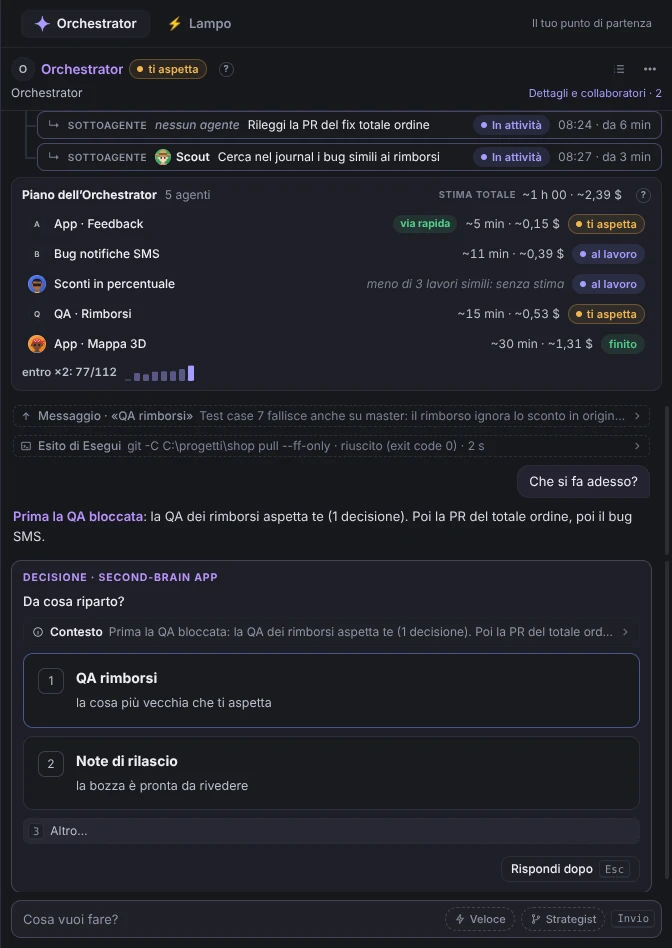
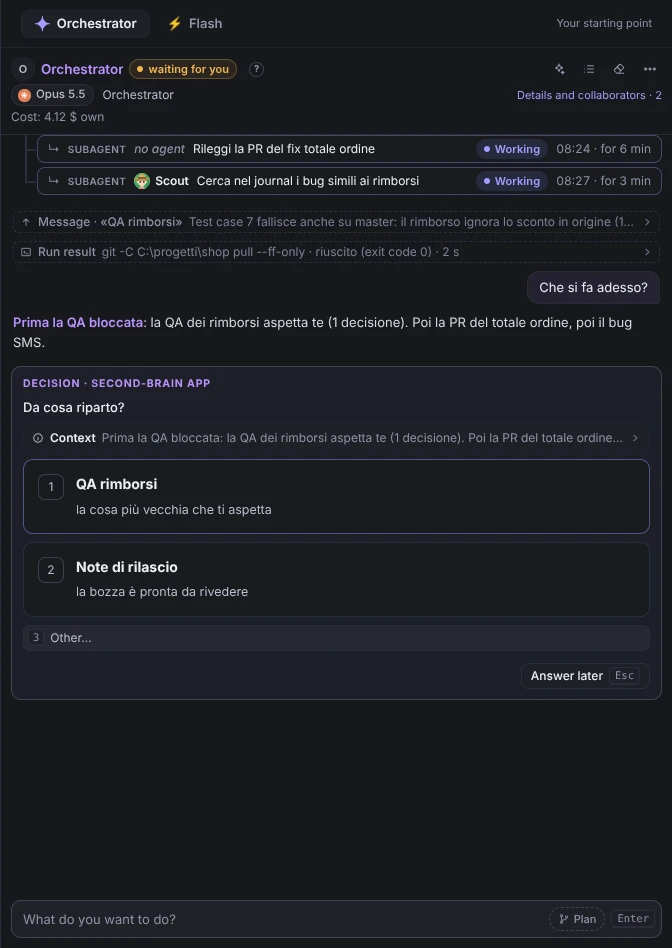
docs(readme): showcase of the best features with fresh screenshots

diff --git a/test/shots/readme.spec.ts b/test/shots/readme.spec.ts
@@ -1,55 +1,83 @@
 // The README screenshots, generated from the frozen demo (SB_DEMO=1 SB_DEMO_FREEZE=1, the synthetic brain of
-// scripts/demo-brain.mjs) so they always show the current UI with fictional data only: dark theme, 1600x1000, saved as
-// WebP (< 300 KB each) in docs/screenshots/. Not part of `npm run check`: run by `npm run shots`
-// (its own Playwright config, playwright.shots.config.ts). The app runs hidden (SB_HIDDEN, set by launch()).
+// scripts/demo-brain.mjs) so they always show the current UI with fictional data only: English UI (SB_LANG=en), dark
+// theme, 1600x1000, saved as WebP (< 300 KB each) in docs/screenshots/: the whole window, one part of it, or two parts
+// side by side. The showcase (memory, agent-levels, brain-map, orchestrator-flash, reactions, plan) and the rest. Not part
+// of `npm run check`: run by `npm run shots` (its own Playwright config, playwright.shots.config.ts). The app runs hidden
+// (SB_HIDDEN, set by launch()). The 3D map needs WebGL: on a machine without a GPU set
+// SB_E2E_ELECTRON_ARGS="--use-angle=swiftshader --enable-unsafe-swiftshader" (and xvfb-run on Linux).
 import { expect, test, type ElectronApplication, type Locator, type Page } from '@playwright/test';
 import { createHash } from 'node:crypto';
 import fs from 'node:fs';
 import os from 'node:os';
 import path from 'node:path';
+import type { StrategyPlan } from '../../src/shared/strategy';
 import { launch, openOrchestrator, openNotesMap, setSize, waitThumbs, goPage } from '../e2e/helpers';
 // @ts-expect-error plain ESM helper without types
 import { demoBrain } from '../../scripts/demo-brain.mjs';
 
 const OUT = path.resolve(import.meta.dirname, '..', '..', 'docs', 'screenshots');
 const MAX = 300 * 1024;
+const W = 1600, H = 1000;
 
 let app: ElectronApplication, page: Page;
 test.beforeAll(async () => {
   fs.mkdirSync(OUT, { recursive: true });
   const brain = (demoBrain as (p: string) => string)('sb-shots-brain-');
-  // each chat asks in its own tile (questions as panels), as most users start
+  // each chat asks in its own tile (questions as panels), as most users start; the UI in English
   const userData = fs.mkdtempSync(path.join(os.tmpdir(), 'sb-shots-'));
-  fs.writeFileSync(path.join(userData, 'config.json'), JSON.stringify({ orchestratorDriven: false }));
-  ({ app, page } = await launch({ SB_DEMO: '1', SB_DEMO_FREEZE: '1', SB_BRAIN: brain }, userData));
-  await setSize(app, 1600, 1000);
+  fs.writeFileSync(path.join(userData, 'config.json'), JSON.stringify({ orchestratorDriven: false, language: 'en', theme: 'dark' }));
+  ({ app, page } = await launch({ SB_DEMO: '1', SB_DEMO_FREEZE: '1', SB_BRAIN: brain, SB_LANG: 'en' }, userData));
+  await setSize(app, W, H);
   await page.emulateMedia({ colorScheme: 'dark', reducedMotion: 'reduce' });
   await expect(page.locator('html[data-clock="frozen"]')).toHaveCount(1);
+  await expect(page.locator('html')).toHaveAttribute('lang', 'en');
   await expect(page.getByTestId('orchestrator-overlay')).toBeVisible();
 });
 test.afterAll(async () => { await app?.close(); });
 
-/** Screenshot (of the whole window, or of one part of it) → WebP in the page (Chromium's encoder: no image dependency),
- *  lowering the quality until < 300 KB. */
-async function save(name: string, part?: Locator): Promise<void> {
-  // transient toasts ("Task aggiornati") would cover the page
+type Clip = { x: number; y: number; width: number; height: number };
+type Part = Locator | Clip;
+
+/** The window, one part of it (an element or a rectangle) as PNG. */
+async function png(part?: Part): Promise<Buffer> {
+  if (part && 'screenshot' in part) return part.screenshot({ animations: 'disabled', caret: 'hide' });
+  return page.screenshot({ animations: 'disabled', caret: 'hide', ...(part ? { clip: part } : {}) });
+}
+
+/** Screenshot (of the whole window, one part of it, or several parts side by side on the app's background) → WebP in
+ *  the page (Chromium's encoder: no image dependency), lowering the quality until < 300 KB. `still`: the mouse stays
+ *  where it is (a card held mid-drag). */
+async function save(name: string, part?: Part | Part[], opts: { still?: boolean } = {}): Promise<void> {
+  // transient toasts ("Tasks updated") would cover the page
   for (const x of await page.getByTestId('toast-close').all()) await x.click();
   await expect(page.getByTestId('toast')).toHaveCount(0);
-  await page.mouse.move(2, 2);
+  if (!opts.still) await page.mouse.move(2, 2);
   await page.waitForTimeout(300);
-  const png = await (part ?? page).screenshot({ animations: 'disabled', caret: 'hide' });
+  const parts = Array.isArray(part) ? part : [part];
+  const pngs: Buffer[] = [];
+  for (const p of parts) pngs.push(await png(p));
+  await saveBuffers(name, pngs);
+}
+
+/** PNGs side by side on the app's background → docs/screenshots/<name>.webp. */
+async function saveBuffers(name: string, buffers: Buffer[]): Promise<void> {
+  const pngs = buffers.map(b => b.toString('base64'));
   for (const q of [0.9, 0.82, 0.74, 0.66]) {
     const b64 = await page.evaluate(async ([data, quality]) => {
-      const bytes = Uint8Array.from(atob(data as string), c => c.charCodeAt(0));
-      const bmp = await createImageBitmap(new Blob([bytes], { type: 'image/png' }));
-      const c = new OffscreenCanvas(bmp.width, bmp.height);
-      c.getContext('2d')!.drawImage(bmp, 0, 0);
+      const bmps = await Promise.all((data as string[]).map(d => createImageBitmap(new Blob([Uint8Array.from(atob(d), c => c.charCodeAt(0))], { type: 'image/png' }))));
+      const gap = bmps.length > 1 ? 24 : 0;
+      const c = new OffscreenCanvas(bmps.reduce((w, b) => w + b.width, 0) + gap * (bmps.length - 1), Math.max(...bmps.map(b => b.height)));
+      const g = c.getContext('2d')!;
+      g.fillStyle = getComputedStyle(document.body).backgroundColor || '#0b0b10';
+      g.fillRect(0, 0, c.width, c.height);
+      let x = 0;
+      for (const b of bmps) { g.drawImage(b, x, 0); x += b.width + gap; }
       const blob = await c.convertToBlob({ type: 'image/webp', quality: quality as number });
       const buf = new Uint8Array(await blob.arrayBuffer());
       let s = '';
       for (let i = 0; i < buf.length; i += 0x8000) s += String.fromCharCode(...buf.subarray(i, i + 0x8000));
       return btoa(s);
-    }, [png.toString('base64'), q] as const);
+    }, [pngs, q] as const);
     const webp = Buffer.from(b64, 'base64');
     if (webp.length <= MAX || q === 0.66) {
       fs.writeFileSync(path.join(OUT, `${name}.webp`), webp);
@@ -62,6 +90,8 @@ async function save(name: string, part?: Locator): Promise<void> {
   }
 }
 
+const demo = <T,>(fn: string, ...args: unknown[]): Promise<T> =>
+  app.evaluate((_e, [f, a]) => ((globalThis as unknown as { __sbDemo: Record<string, (...x: unknown[]) => unknown> }).__sbDemo[f as string]!)(...(a as unknown[])), [fn, args] as const) as Promise<T>;
 const tool = (chatId: string, t: { id: string; name: string; input: unknown; summary?: string }) =>
   app.evaluate((_e, [c, x]) => (globalThis as unknown as { __sbDemo: { tool(c: string, t: unknown): void } }).__sbDemo.tool(c, x), [chatId, t] as const);
 
@@ -109,10 +139,10 @@ test('README screenshots', async () => {
   await tool('fix', { id: 'shot-agent', name: 'Agent', input: { subagent_type: 'reviewer' }, summary: 'reviewer' });
   await tool('orchestrator', { id: 'shot-send', name: 'mcp__second-brain-app__app_send_to_chat', input: { chatId: 'feedback', text: 'go' }, summary: 'App · Feedback' });
   await openNotesMap(page);
-  await page.getByRole('button', { name: 'Esplora in 3D' }).click();
+  await page.getByRole('button', { name: 'Explore in 3D' }).click();
   await expect(page.getByTestId('brain-map').getByTestId('bx-map-canvas').locator('canvas')).toHaveCount(1, { timeout: 30_000 });
   await page.waitForTimeout(5000); // the layout settles
-  await save('brain-map');
+  await save('brain-map', page.getByTestId('brain-map'));
   await page.keyboard.press('Escape');
   await expect(page.getByTestId('brain-map')).toHaveCount(0);
 
@@ -131,9 +161,94 @@ test('README screenshots', async () => {
   await save('quality');
 
   // 7. Script: the brain's tested, reusable scripts as cards (ADR 0076)
-  await page.getByTestId('nav-script').click();
+  await goPage(page, 'script'); // a tab of Memoria now (ADR 0122)
   await expect(page.getByTestId('bs-script-card')).toHaveCount(4, { timeout: 30_000 });
   await save('brain-scripts');
+});
+
+/** The visible part of the scrolling frame around this element (the page's own column, without the rail and the
+ *  Orchestrator's column). */
+const frameOf = (el: Locator): Promise<Clip> => el.evaluate(e => {
+  let f: HTMLElement | null = e as HTMLElement;
+  while (f && !(f.scrollHeight > f.clientHeight && /(auto|scroll)/.test(getComputedStyle(f).overflowY))) f = f.parentElement;
+  const r = (f ?? (e as HTMLElement)).getBoundingClientRect();
+  const y = Math.max(0, r.top), b = Math.min(innerHeight, r.bottom);
+  return { x: Math.round(r.left), y: Math.round(y), width: Math.round(r.width), height: Math.round(b - y) };
+});
+
+test('README showcase: Memoria, agent levels, Orchestrator and Flash, reactions', async () => {
+  test.setTimeout(180_000);
+  await goPage(page, 'home');
+
+  // Memoria: the live head with its counters, the tabs, the Proposals deck with its top card held mid-swipe
+  await setSize(app, W, 1240);
+  await page.getByTestId('nav-memoria').click();
+  const mem = page.getByTestId('bm-memory-page');
+  await expect(mem).toHaveAttribute('data-tab', 'proposte');
+  const top = page.getByTestId('pd-card-top');
+  await expect(top).toBeVisible({ timeout: 30_000 });
+  await expect(page.getByTestId('bx-loading')).toHaveCount(0, { timeout: 30_000 });
+  await page.waitForTimeout(600);
+  const box = (await top.locator('.pd-title').boundingBox())!;
+  const x = box.x + box.width / 2, y = box.y + box.height / 2;
+  await page.mouse.move(x, y);
+  await page.mouse.down();
+  for (let i = 1; i <= 8; i++) await page.mouse.move(x + (120 * i) / 8, y + i * 1.5);
+  await expect(page.getByTestId('pd-stamp-yes')).toHaveCSS('opacity', /^(0\.[5-9]|1)/);
+  await save('memory', await frameOf(mem), { still: true });
+  await page.mouse.move(x, y); // back below the threshold: the card springs back, nothing decided
+  await page.mouse.up();
+  await expect(page.getByTestId('pd-stamp-yes')).toHaveCSS('opacity', '0');
+
+  // Agents: every role's card with its level from verified outcomes and its performance %, the level's "?" open on the
+  // Sentinel (who judges the judge)
+  await goPage(page, 'agenti');
+  const overview = page.getByTestId('agent-overview');
+  await expect(overview.getByTestId('catalog-card-sentinel')).toBeVisible({ timeout: 30_000 });
+  const cards: Buffer[] = [];
+  for (const id of ['orchestrator', 'artisan', 'sentinel']) {
+    const card = overview.getByTestId(`catalog-card-${id}`);
+    await card.scrollIntoViewIfNeeded();
+    await page.mouse.move(2, 2);
+    await page.waitForTimeout(300);
+    cards.push(await png(card));
+  }
+  await saveBuffers('agent-levels', cards);
+  await setSize(app, W, H);
+
+  // the Orchestrator's column, then Flash beside it, side by side
+  await goPage(page, 'home');
+  await openOrchestrator(page);
+  await waitThumbs(page);
+  const column = page.getByTestId('orchestrator-overlay');
+  await page.mouse.move(2, 2);
+  const cb0 = (await column.boundingBox())!;
+  const topPart = { x: Math.round(cb0.x), y: Math.round(cb0.y), width: Math.round(cb0.width), height: 745 };
+  const orch = await png(topPart);
+  await page.getByTestId('lane-lampo').click();
+  await expect(page.getByTestId('tile-lampo')).toBeVisible();
+  await page.mouse.move(2, 2);
+  await page.waitForTimeout(300);
+  const flash = await png(topPart);
+  await page.getByTestId('lane-orchestrator').click();
+  await expect(page.getByTestId('tile-orchestrator')).toBeVisible();
+  await saveBuffers('orchestrator-flash', [orch, flash]);
+
+  // a thanks needs no answer: the Orchestrator's one-emoji reply sticks to the message as a reaction (her decision
+  // answered first, so the message goes at once instead of queuing behind her turn)
+  await page.getByTestId('tile-orchestrator').getByRole('button', { name: /^QA rimborsi/ }).click();
+  await expect.poll(() => page.evaluate(async () => (await window.sb.invoke('chat:list', undefined)).find(c => c.isOrchestrator && !c.closedAt)?.state), { timeout: 20_000 }).toBe('idle');
+  await page.getByTestId('orchestrator-input').click();
+  await page.keyboard.type('thanks!');
+  await page.keyboard.press('Enter');
+  const react = page.getByTestId('tile-orchestrator').locator('.msg-user .msg-react').last();
+  await expect(react).toHaveText('👍', { timeout: 15_000 });
+  await page.waitForTimeout(500);
+  // from the question before it (a written answer) down to the thanks with its reaction
+  const users = page.getByTestId('tile-orchestrator').locator('.msg-user');
+  const cb = (await column.boundingBox())!, rb = (await react.boundingBox())!, qb = (await users.nth((await users.count()) - 2).boundingBox())!;
+  const from = Math.round(qb.y - 8), to = Math.round(Math.min(cb.y + cb.height, rb.y + rb.height + 20));
+  await save('reactions', { x: Math.round(cb.x), y: from, width: Math.round(cb.width), height: to - from });
 });
 
 test('README screenshot: Connettori', async () => {
@@ -143,4 +258,27 @@ test('README screenshot: Connettori', async () => {
   await expect(hub.getByTestId('hub-server-github')).toBeVisible({ timeout: 30_000 });
   await hub.getByTestId('hub-servers').evaluate(el => el.scrollIntoView({ block: 'start' }));
   await save('connectors');
+});
+
+test('README showcase: the Strategist\'s plan to approve in the questions window', async () => {
+  // Popup on: the plan to approve is one more card of the questions window, its steps numbered with their role
+  await page.keyboard.press('Escape');
+  await goPage(page, 'home');
+  if (!(await page.getByTestId('tile-chat-tree-plan').count())) await demo('tree');
+  await expect(page.getByTestId('tile-chat-tree-plan')).toBeVisible({ timeout: 15_000 });
+  await page.evaluate(() => window.sb.invoke('settings:set', { questionsModal: true }));
+  const at = Date.now();
+  const plan = { phase: 'proposed', at, asked: 2, doneWhen: 'Order tests pass and the release notes are ready.',
+    steps: [
+      { title: 'Find where the discount is computed today', detail: 'cart, order and refund', role: 'scout', state: 'todo' },
+      { title: 'Apply the % discount to the full price', detail: 'no double discount on offers', role: 'artisan', state: 'todo' },
+      { title: 'Check that the order tests pass', role: 'sentinel', state: 'todo' },
+      { title: 'Write the release notes', role: 'herald', state: 'todo' },
+    ],
+    clarified: [{ q: 'Where', a: 'Cart, order and refund' }, { q: 'Offers', a: 'No, full price only' }] } as StrategyPlan;
+  await demo('plan', 'tree-plan', plan);
+  await expect(page.getByTestId('qwin-backdrop')).toBeVisible();
+  await page.locator(`[data-testid="qwin-pick"][data-key="tree-plan/plan@${at}"]`).click();
+  await expect(page.getByTestId('qwin-plan')).toBeVisible();
+  await save('plan', page.getByTestId('qwin'));
 });

diff --git a/README.md b/README.md
@@ -52,27 +52,71 @@ Finish with a three-line summary: where the code lives, how I start the app, and
 That's it. Updating later is one click: **Impostazioni → Aggiornamenti → Aggiorna** pulls `main`, rebuilds and
 restarts (or `npm run pull` in a terminal).
 
-## What it does
+## Take the tour
 
-- **A crew, not a pile of tabs.** You tell the Orchestrator what you want; it hands the work to five roles
-  (Strategist, Scout, Artisan, Sentinel, Herald) that split it into child chats and report back.
-- **Answer with one key.** Questions and permissions show up as panels, with an estimate before ("~4 min · ~0,12 $")
-  and a verdict after.
-- **Browsers they drive.** Real tabs inside the app over MCP: the agents click, type and take screenshots; passwords
-  stay yours.
-- **A brain that learns.** Notes, rules, skills and scripts in a plain Markdown folder, shown live on a 3D map; roles
-  level up only on verified successes.
-- **Your own logins.** It drives the official CLIs with your account and never touches their settings. The UI speaks
-  Italian and English.
+Meet the crew: you talk to the Orchestrator, and it hands the work to five roles (Strategist, Scout, Artisan, Sentinel,
+Herald) that split it into child chats you can watch and report back.
 
 <p align="center"><img src="docs/screenshots/crew.webp" alt="The six roles: Orchestrator, Strategist, Scout, Artisan, Sentinel, Herald" width="544"></p>
 
-<table>
-<tr>
-<td width="50%"><img src="docs/screenshots/browser.webp" alt="A QA chat in focus mode with the browser tab it drives"><br><b>Browsers they drive.</b> A QA chat asks you something while its tab waits.</td>
-<td width="50%"><img src="docs/screenshots/brain-map.webp" alt="Brain → Mappa, the 3D map of notes, agents and tools"><br><b>The brain map.</b> Notes, agents and tools, glowing where the work happens.</td>
-</tr>
-</table>
+### Memory you swipe
+
+Everything the agents learn lands as a card: a fact, a skill, a rule, a setting. Swipe right to keep it, left to drop
+it (or ✓ / ✕, or the arrow keys, with Z to undo), and every card says who proposed it, in which chat and when. Behind
+the deck, one hub with tabs (Approved, Skills, Rules, Scripts & Queries, Ideas, Files, Learning, Statistics) under a
+header whose counters move while the agents work.
+
+<p align="center"><img src="docs/screenshots/memory.webp" alt="Memory: the live header with its counters, the tabs, and a proposal card swiped toward APPROVE" width="560"></p>
+
+### Agents that level up
+
+Every role earns its level from verified outcomes only, never from vibes: a delegated job counts when its parent's
+work checks out, and the Sentinel, the one who judges, is judged by what happens next. Each card shows the level and a
+performance %.
+
+<p align="center"><img src="docs/screenshots/agent-levels.webp" alt="Agent cards for the Orchestrator, the Artisan and the Sentinel, each with its level, verified successes and performance percentage" width="720"></p>
+
+### The brain map
+
+Notes, chats, agents and tools as a 3D map you can spin, glowing along the links where the work is happening right now.
+
+<p align="center"><img src="docs/screenshots/brain-map.webp" alt="The 3D brain map: notes, chats, agents and tools linked, the live ones glowing" width="640"></p>
+
+### The Orchestrator and Flash
+
+The **Orchestrator** is where work starts: it plans, hands each job to the right role, answers their mail and tells you
+what is waiting. **Flash**, the tab next to it, is the "btw": a quick read-only agent on its own model that sees the
+Orchestrator's conversation and answers side questions in seconds, without touching it. When a question turns into
+real work, "Make it a job" drafts it for the Orchestrator.
+
+<p align="center"><img src="docs/screenshots/orchestrator-flash.webp" alt="The Orchestrator's column with its subagents and a decision, and Flash beside it" width="760"></p>
+
+### Emoji instead of essays
+
+Say "thanks" and you get a 👍 on your message, not a paragraph of pleasantries. Any agent with nothing to add reacts
+instead of replying, on every engine, so those tokens go to work instead.
+
+<p align="center"><img src="docs/screenshots/reactions.webp" alt="A thanks to the Orchestrator answered with a thumbs-up reaction under the message" width="560"></p>
+
+### Plan mode
+
+Tick **Plan** and a Strategist takes the job: it asks you a few questions first, then proposes a short plan, each step
+with the role that will do it. You approve it in the questions window (or right on its strip), and only then does it start the other agents,
+as the tree of thread cards at the top of this page, its steps ticking off on its strip.
+
+<p align="center"><img src="docs/screenshots/plan.webp" alt="The questions window: a Strategist's four-step plan to approve, each step with its role" width="680"></p>
+
+## Also on board
+
+- **Answer with one key.** Questions and permissions show up as panels, with an estimate before ("~4 min · ~0.12 $")
+  and a verdict after.
+- **Browsers they drive.** Real tabs inside the app over MCP: the agents click, type and take screenshots; passwords
+  stay yours.
+- **A brain in plain Markdown.** Notes, rules, skills and scripts live in a folder you own, readable without the app.
+- **Your own logins.** It drives the official CLIs with your account and never touches their settings. The UI speaks
+  Italian, English and German.
+
+<p align="center"><img src="docs/screenshots/browser.webp" alt="A QA chat in focus mode with the browser tab it drives" width="720"></p>
 
 ## The rest
 
